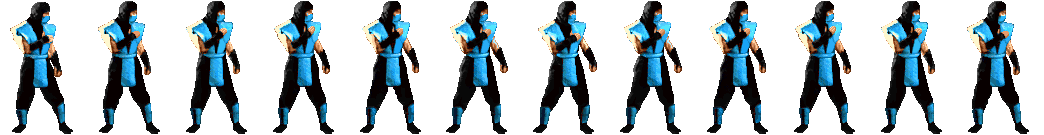
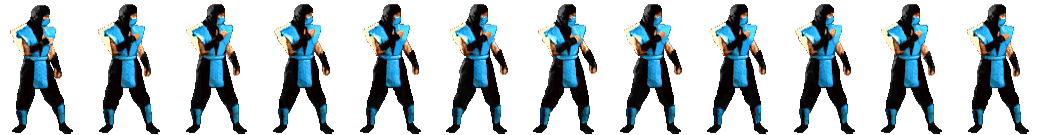
Reajustados todas las animaciones de Sub-Zero y Sonia. Reajustados las velocidades de personajes lo mas cercano al juego original. Reajustados las velocidades de capas lo mas cercano al juego original.

diff --git a/branches/primer-entrega/src/modelo/Personaje.cpp b/branches/primer-entrega/src/modelo/Personaje.cpp
@@ -9,7 +9,7 @@
 
 #define VELOCIDAD_DESP_HORIZONTAL_SALTANDO 320.0f
 #define VELOCIDAD_DESP_HORIZONTAL_CAMINANDO 215.0f
-#define VELOCIDAD_DESP_VERTICAL 1000.0f
+#define VELOCIDAD_DESP_VERTICAL 1120.0f
 #define VELOCIDAD_NULA 0.0f
 #define VECTOR_VELOCIDAD_NULA Vector2f(0, 0)
 #define VECTOR_GRAVEDAD Vector2f(0, -2600.f)
